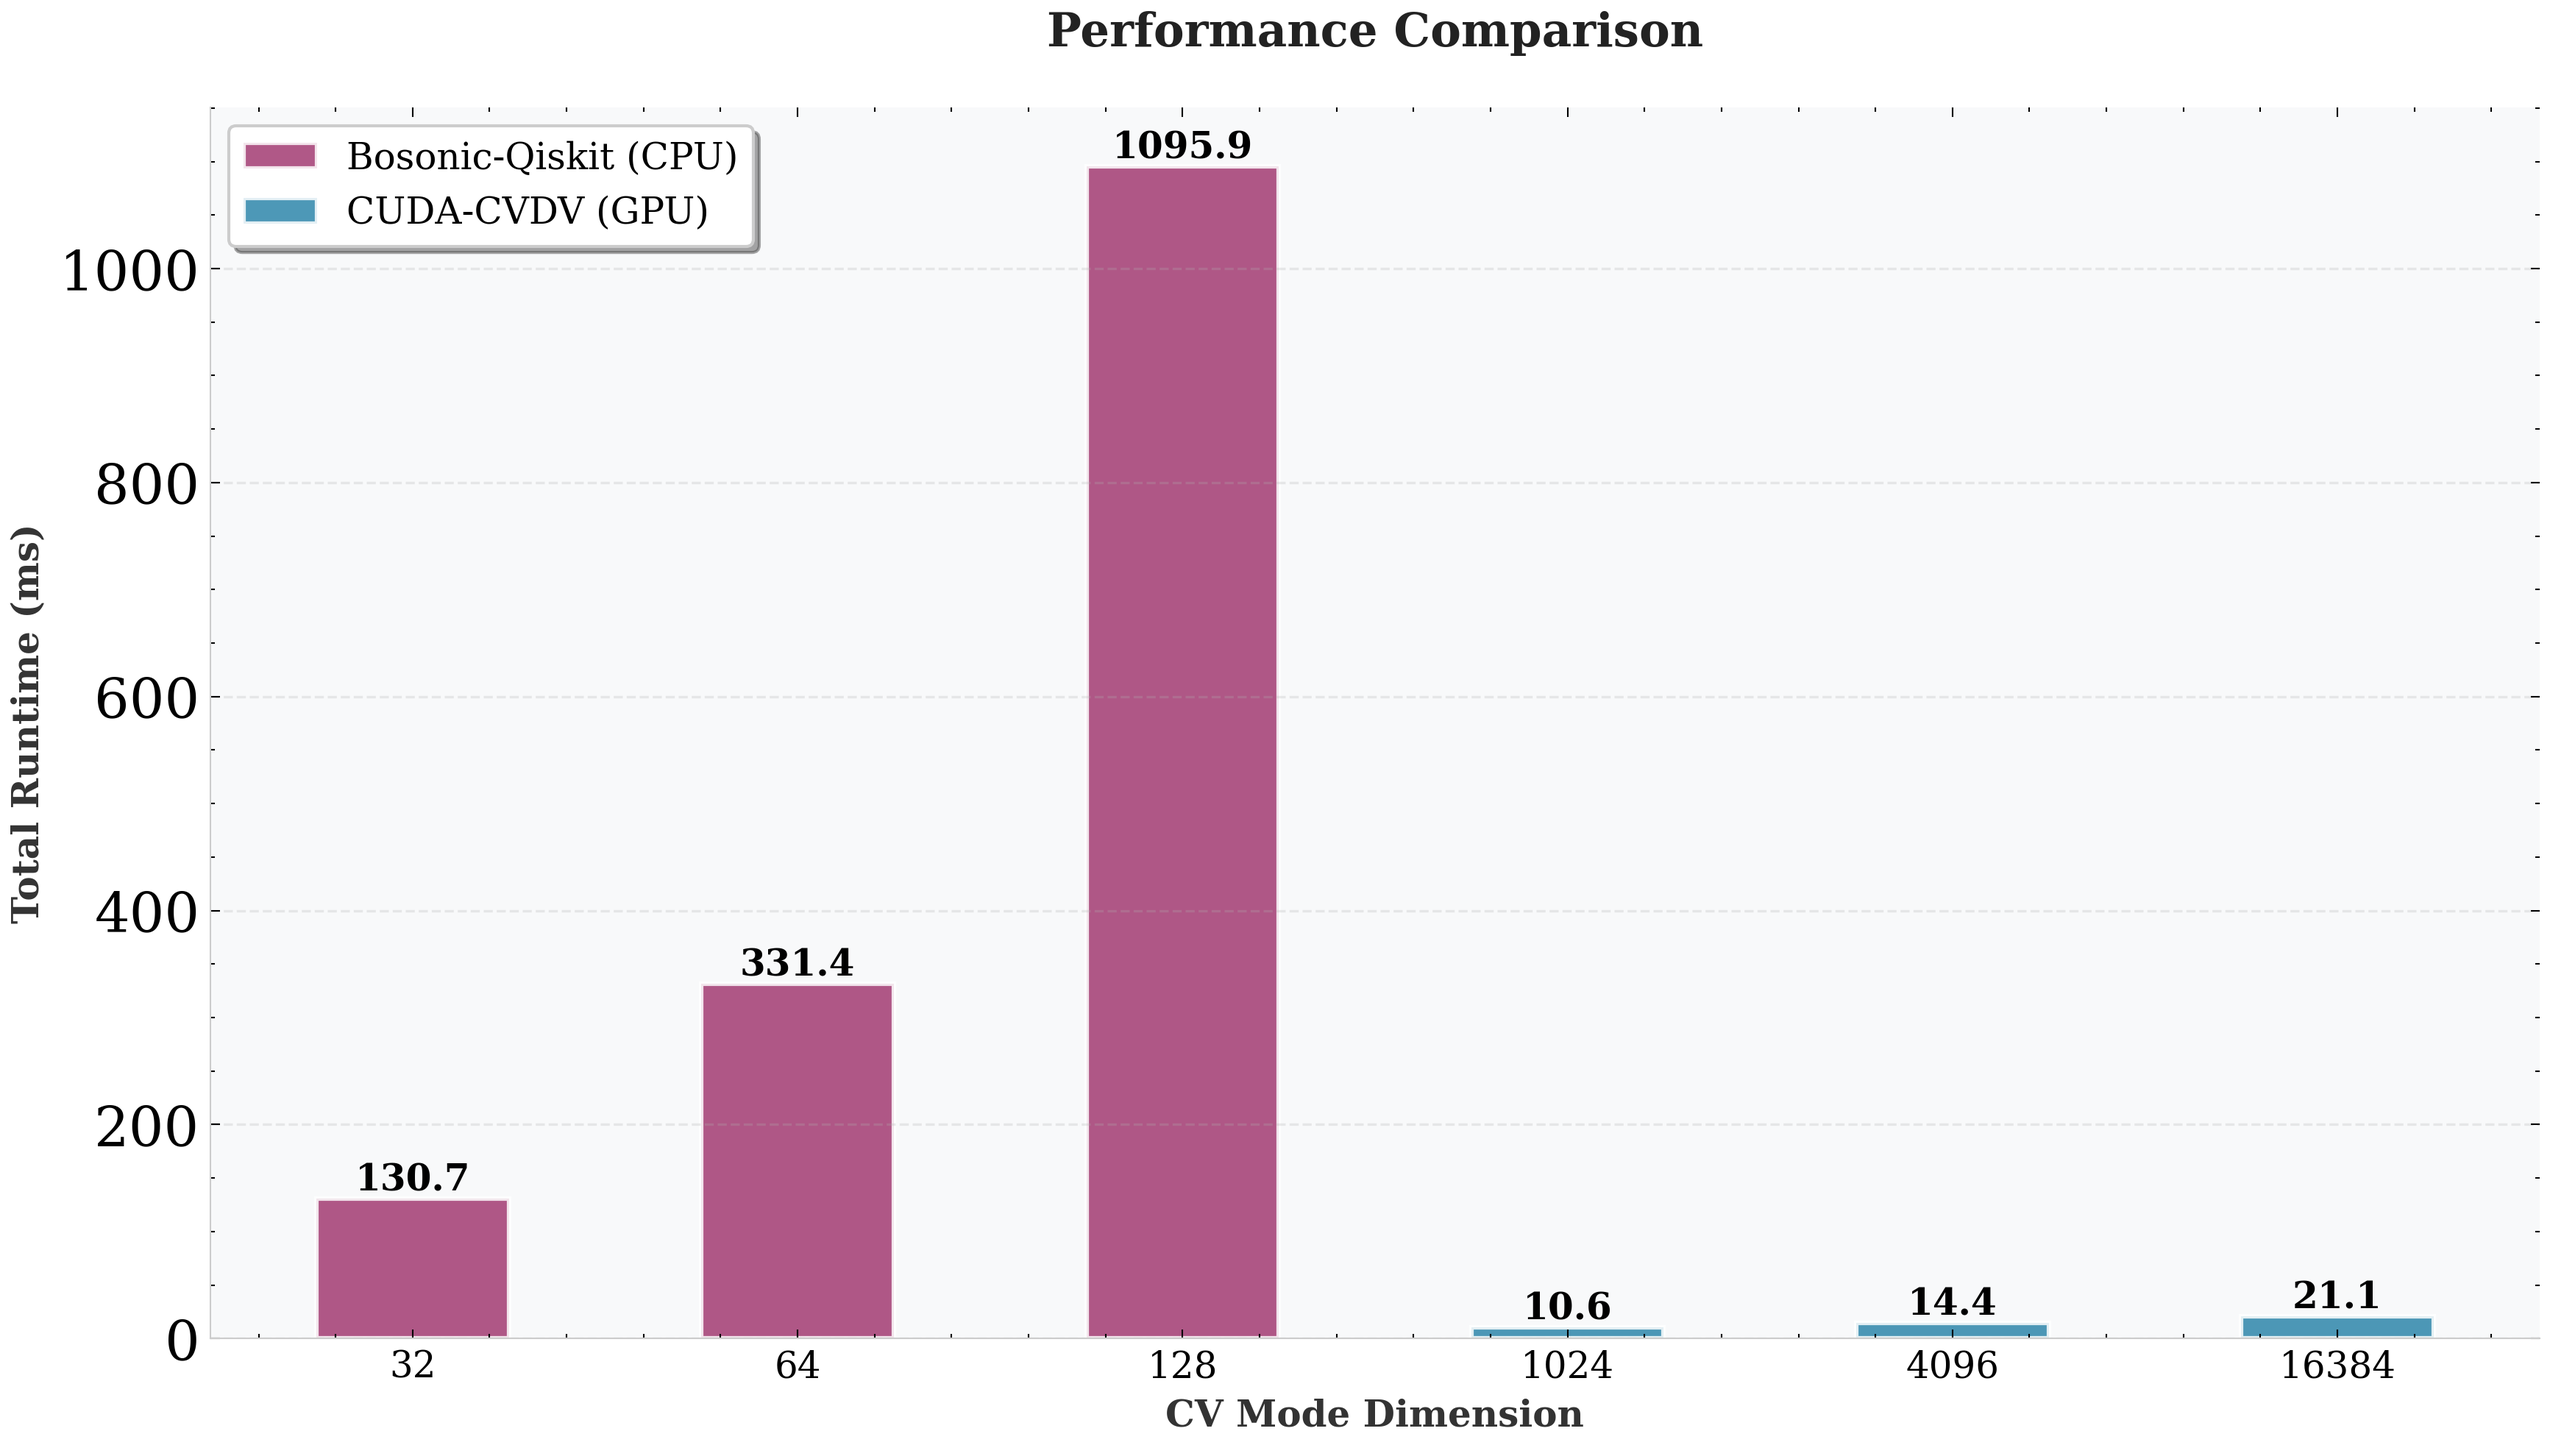
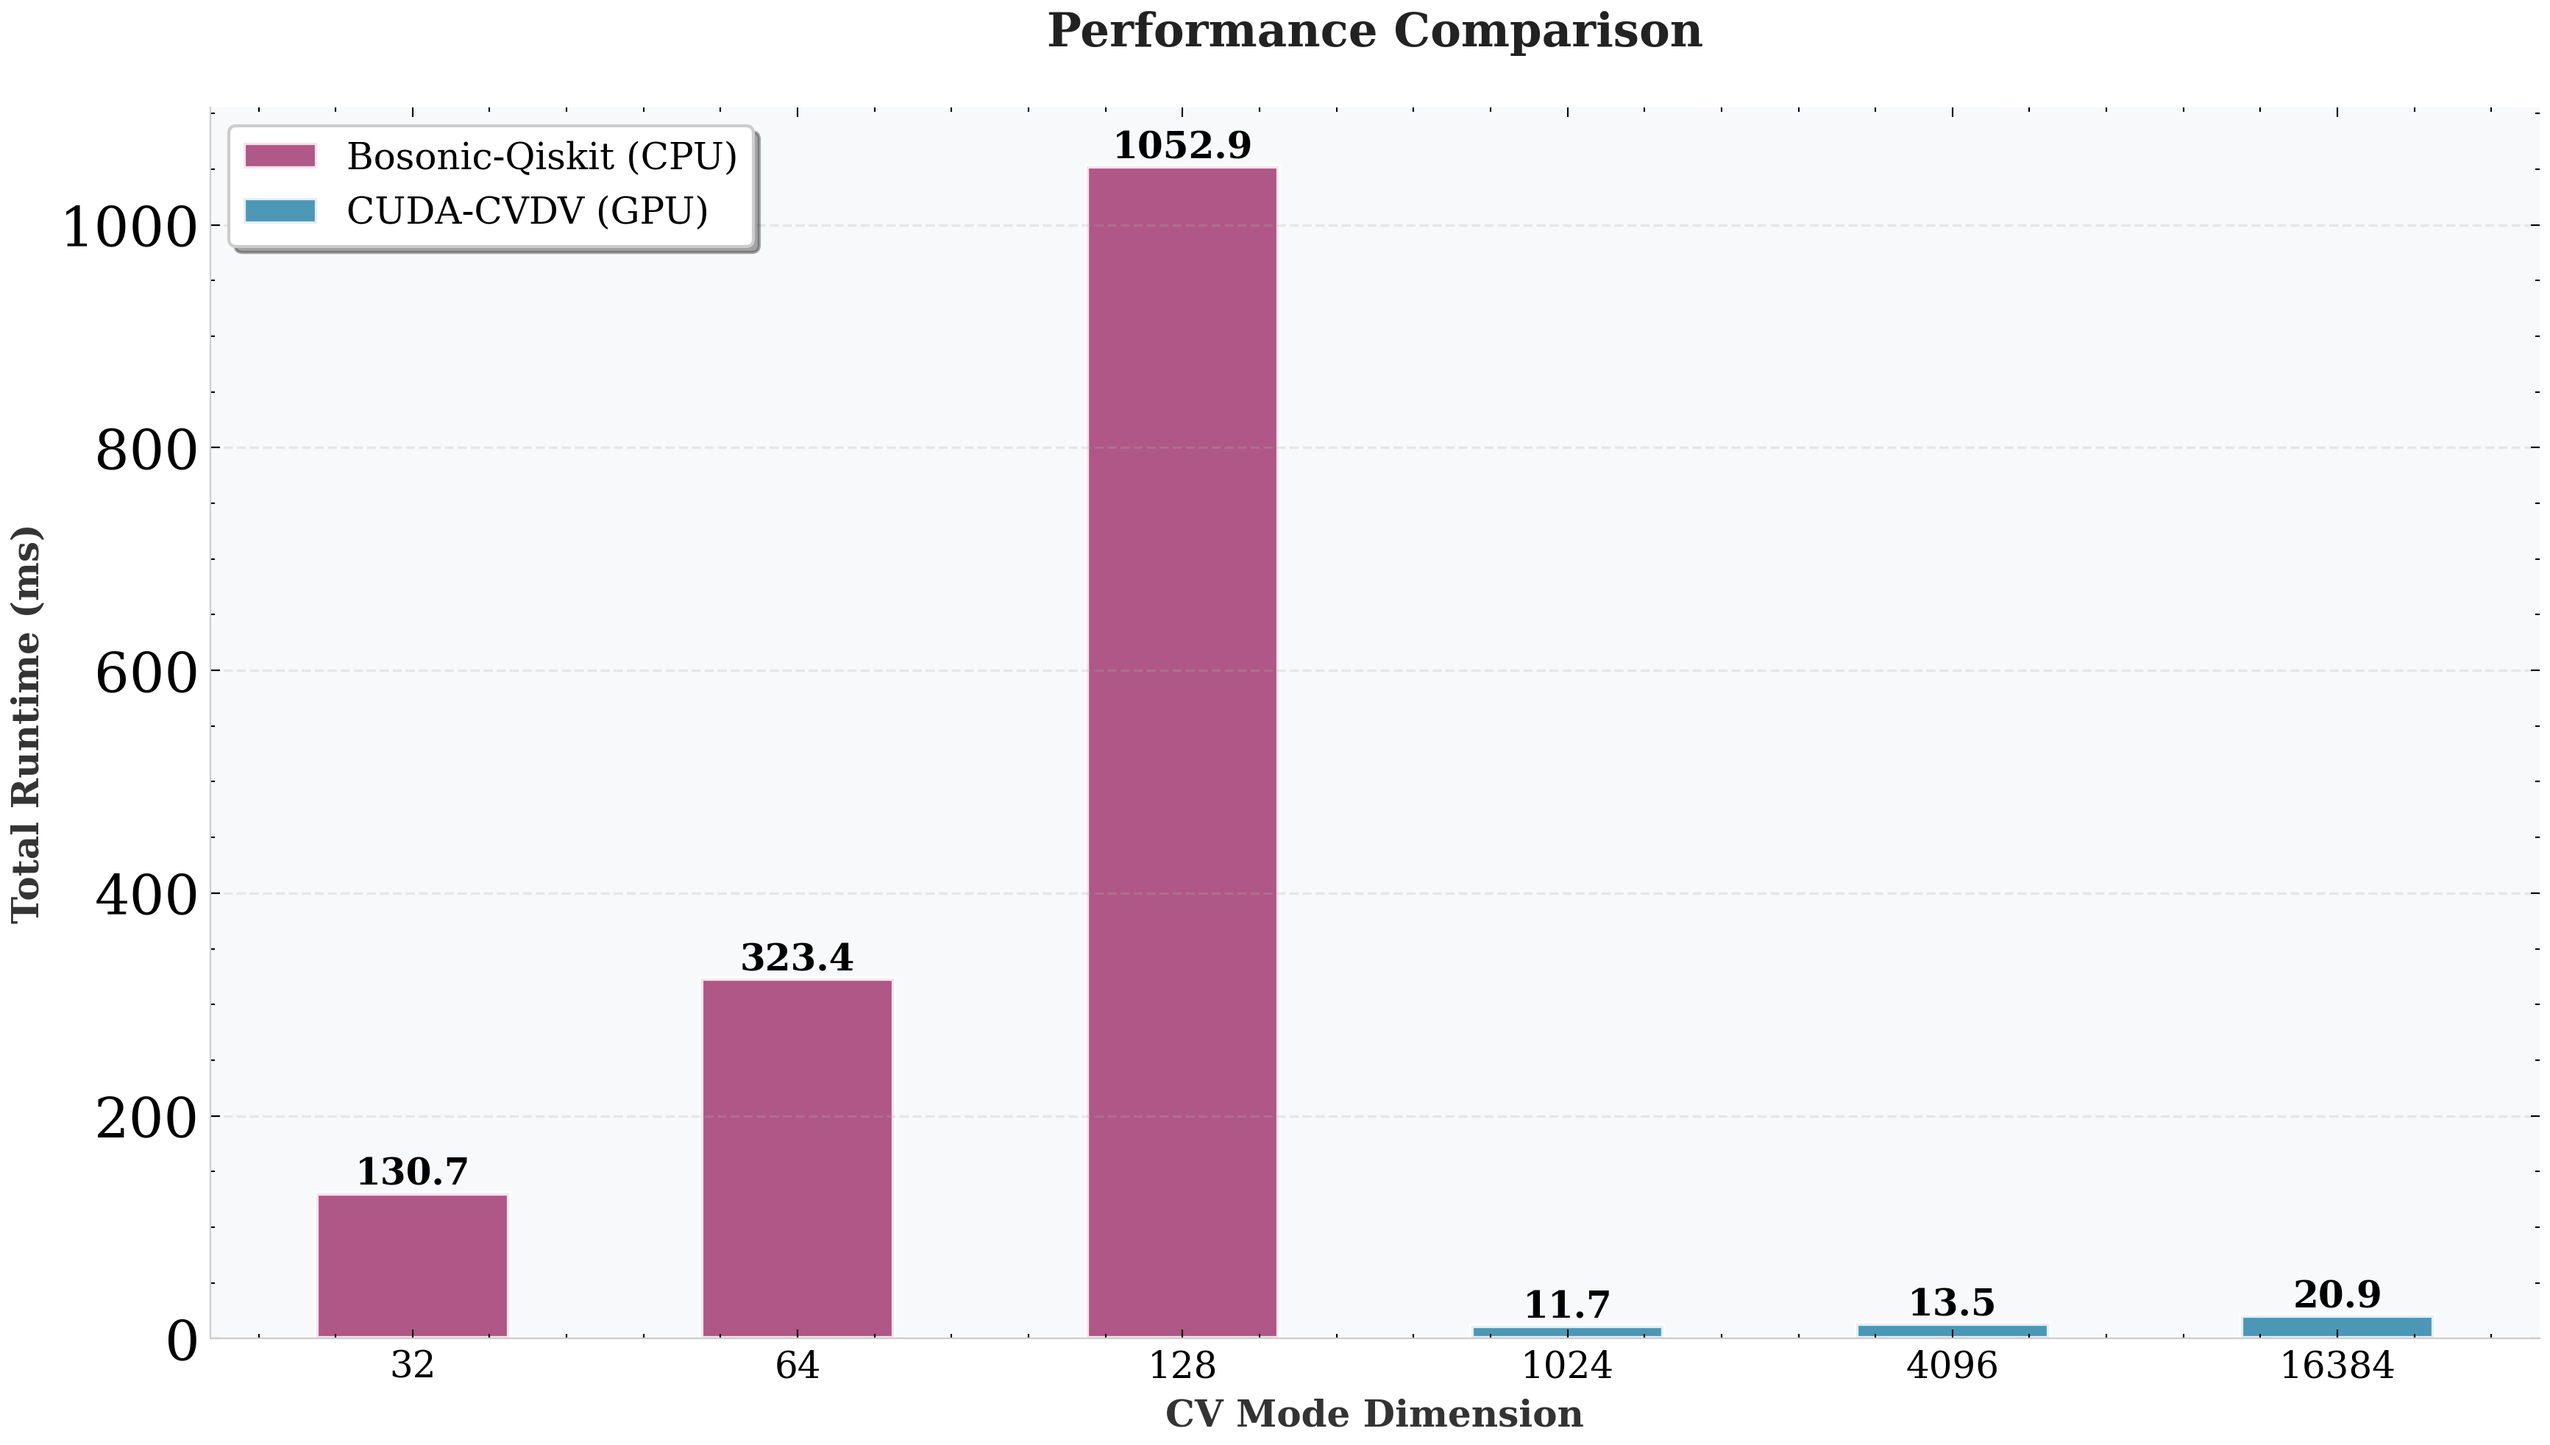
use bigger cat in benchmark

diff --git a/benchmarks/bench_cvdv.py b/benchmarks/bench_cvdv.py
@@ -31,19 +31,20 @@ def run_cvdv_transfer_experiment(n_dv_qubits=4, cv_qubits=12, lam=0.29, return_p
         dict: Contains 'time' and optionally 'plots' with initial/final state data
     """
     t_start = time.perf_counter()
-    alpha = 2.0
+    cat0_center = -1.0 * sqrt(2)
+    cat1_center = 2.0 * sqrt(2)
+    dim = 1<<cv_qubits
+    dx = sqrt(2*pi/dim)
+    x = (np.arange(dim)-0.5*(dim-1)) * dx
+    cat0 = np.exp(-(x-cat0_center)**2/2)
+    cat1 = np.exp(-(x-cat1_center)**2/2)
+    cat = cat0 + cat1
+    cat = cat / np.linalg.norm(cat)
     
     # Capture initial state if plots are requested
     if return_plots:
         sim_initial = CVDV([n_dv_qubits, cv_qubits])
         sim_initial.setUniform(0)
-        dim = 1<<cv_qubits
-        dx = sqrt(2*pi/dim)
-        x = (np.arange(dim)-0.5*(dim-1)) * dx
-        cat0 = np.exp(-x**2/2)
-        cat1 = np.exp(-(x-alpha*sqrt(2))**2/2)
-        cat = cat0 + cat1
-        cat = cat / np.linalg.norm(cat)
         sim_initial.setCoeffs(1, cat)
         sim_initial.initStateVector()
         probs_dv_initial = sim_initial.measure(0)
@@ -52,14 +53,6 @@ def run_cvdv_transfer_experiment(n_dv_qubits=4, cv_qubits=12, lam=0.29, return_p
     # Initialize system
     sim = CVDV([n_dv_qubits, cv_qubits])
     sim.setUniform(0)
-    
-    dim = 1<<cv_qubits
-    dx = sqrt(2*pi/dim)
-    x = (np.arange(dim)-0.5*(dim-1)) * dx
-    cat0 = np.exp(-x**2/2)
-    cat1 = np.exp(-(x-alpha*sqrt(2))**2/2)
-    cat = cat0 + cat1
-    cat = cat / np.linalg.norm(cat)  # Normalize
     sim.setCoeffs(1, cat)
     
     sim.initStateVector()

diff --git a/benchmarks/bench_bosonic.py b/benchmarks/bench_bosonic.py
@@ -54,18 +54,22 @@ def run_bosonic_transfer_experiment(n_dv_qubits=4, cv_cutoff=64, lam=0.29, retur
 
     # Initialize CV register to cat state (|α=0⟩ + |α=2.0⟩)
     # Use numerically robust recurrence relation: c_n = α/√n · c_{n-1}
-    alpha = 2.0
-    cat_state = np.zeros(actual_cutoff, dtype=np.complex128)
+    alpha0 = -1.0
+    alpha1 = 2.0
+    cat0 = np.zeros(actual_cutoff, dtype=np.complex128)
+    cat1 = np.zeros(actual_cutoff, dtype=np.complex128)
     
     # Initialize n=0 term
-    cat_state[0] = np.exp(-abs(alpha)**2/2)
+    cat0[0] = np.exp(-abs(alpha0)**2/2)
+    cat1[0] = np.exp(-abs(alpha1)**2/2)
     for n in range(1, actual_cutoff):
-        cat_state[n] = cat_state[n-1] * alpha / np.sqrt(n)
+        cat0[n] = cat0[n-1] * alpha0 / np.sqrt(n)
+        cat1[n] = cat1[n-1] * alpha1 / np.sqrt(n)
     
     # Form cat state and normalize
-    cat_state[0] += 1
-    cat_state = cat_state / np.linalg.norm(cat_state)
-    circuit.cv_initialize(cat_state, cv_reg[0])
+    cat = cat0 + cat1
+    cat = cat / np.linalg.norm(cat)
+    circuit.cv_initialize(cat, cv_reg[0])
     
     # Capture initial state if plots are requested
     if return_plots:

diff --git a/README.md b/README.md
@@ -13,37 +13,45 @@ A high-performance CUDA library for simulating hybrid continuous-variable (CV) a
 + [ ] Add performance benchmarks (timing, memory usage, GPU vs CPU comparison) + comparison table vs existing bosonic simulators
 
 
-## Benchmarks
+## Benchmarks: CV-to-DV State Transfer
 
-Compare CUDA-CVDV (GPU, position encoding) with bosonic-qiskit (CPU, Fock basis) in the task of **CV-to-DV state transfer** [Phys. Rev. Lett. 128, 110503 (2022)](https://link.aps.org/doi/10.1103/PhysRevLett.128.110503) with 4 qubits and 1 qumode.
+The position encoding approach naturally enables **universal transfer of CV modes into qubits**, where the position wave function coefficients $\psi(q_j)$ are directly encoded into the qubit register amplitudes. This capability is demonstrated through the **CV-to-DV state transfer protocol** [Phys. Rev. Lett. 128, 110503 (2022)](https://link.aps.org/doi/10.1103/PhysRevLett.128.110503).
 
-```bash
-cd benchmarks
-./run.sh
-```
+**How it works**: The algorithm transfers a CV state's position-space representation into a discrete qubit register:
+$$|\psi\rangle_{\text{CV}} = \sum_j \psi(q_j) |j\rangle \xrightarrow{\text{transfer}} \sum_j \psi(q_j) |j\rangle_{\text{DV}}$$
 
-### Performance Results
+The position wave function coefficients become the computational basis amplitudes of qubits, making this operation natural for position encoding but challenging for Fock-basis simulators.
 
-While Bosonic-Qiskit struggles to run beyond CV dimension 128 (7 qubits) due to dense matrix operations, CVDV efficiently simulates up to CV dimension 16384 (14 qubits) on GPU with 50x speed than bosonic-qiskit with CV dimension 128 (7 qubits).
-The speedup comes from both the efficiency of simulation algorithm based on position encoding and its natural compatibility with GPU parallelism.
+### Performance Comparison
+
+The benchmark compares CVDV (GPU, position encoding) against bosonic-qiskit (CPU, Fock basis) across varying CV dimensions:
 
 ![Performance Comparison](benchmarks/results/comparison.png)
 
-*Benchmark: CV-to-DV state transfer (4 DV qubits) with varying CV dimension. CVDV uses position encoding on GPU, bosonic-qiskit uses Fock basis on CPU. Tested on NVIDIA RTX 4070 Laptop GPU.*
+*Performance scaling with CV dimension. CVDV efficiently simulates up to dimension 16384 (14 qubits) on GPU with 50× speedup over bosonic-qiskit at dimension 128 (7 qubits). Bosonic-qiskit cannot scale beyond dimension 128 due to dense matrix operations. Tested on NVIDIA RTX 4070 Laptop GPU.*
 
-To do: estimate truncation error caused by simulation.
+**Key Insight**: The exponential advantage comes from both the algorithm's efficiency (position encoding eliminates dense matrices) and GPU parallelism (independent grid point operations).
 
-### State Visualization Example
+### Run Benchmarks
 
-The benchmarks also generate state visualizations showing DV probability distributions and CV Wigner functions:
+```bash
+./benchmarks/run.sh
+```
 
-| Initial State | Final State |
-|:-------------:|:-----------:|
-| ![Initial State](benchmarks/results/cvdv_initial_state.png) | ![Final State](benchmarks/results/cvdv_final_state.png) |
+Results saved to `benchmarks/results/` with timing data (`benchmark_results.json`) and visualization plots.
 
-*Example: CV-to-DV state transfer protocol. Left: Initial |+⟩⊗4 ⊗ |α=1⟩ state. Right: Encoded state after transfer circuit showing CV displaced to vacuum and DV register encoding the original CV state.*
+### Visualization
 
-Results saved to `benchmarks/results/` with timing data in JSON format (`benchmark_results.json`) and visualization plots.
+The benchmark demonstrates transferring a cat state from a CV mode to a 4-qubit register:
+
+**Initial State**
+
+![Initial State](benchmarks/results/cvdv_initial_state.png)
+
+**Final State**
+
+![Final State](benchmarks/results/cvdv_final_state.png)
+
 
 
 ## Why Position Wave Function Encoding?
